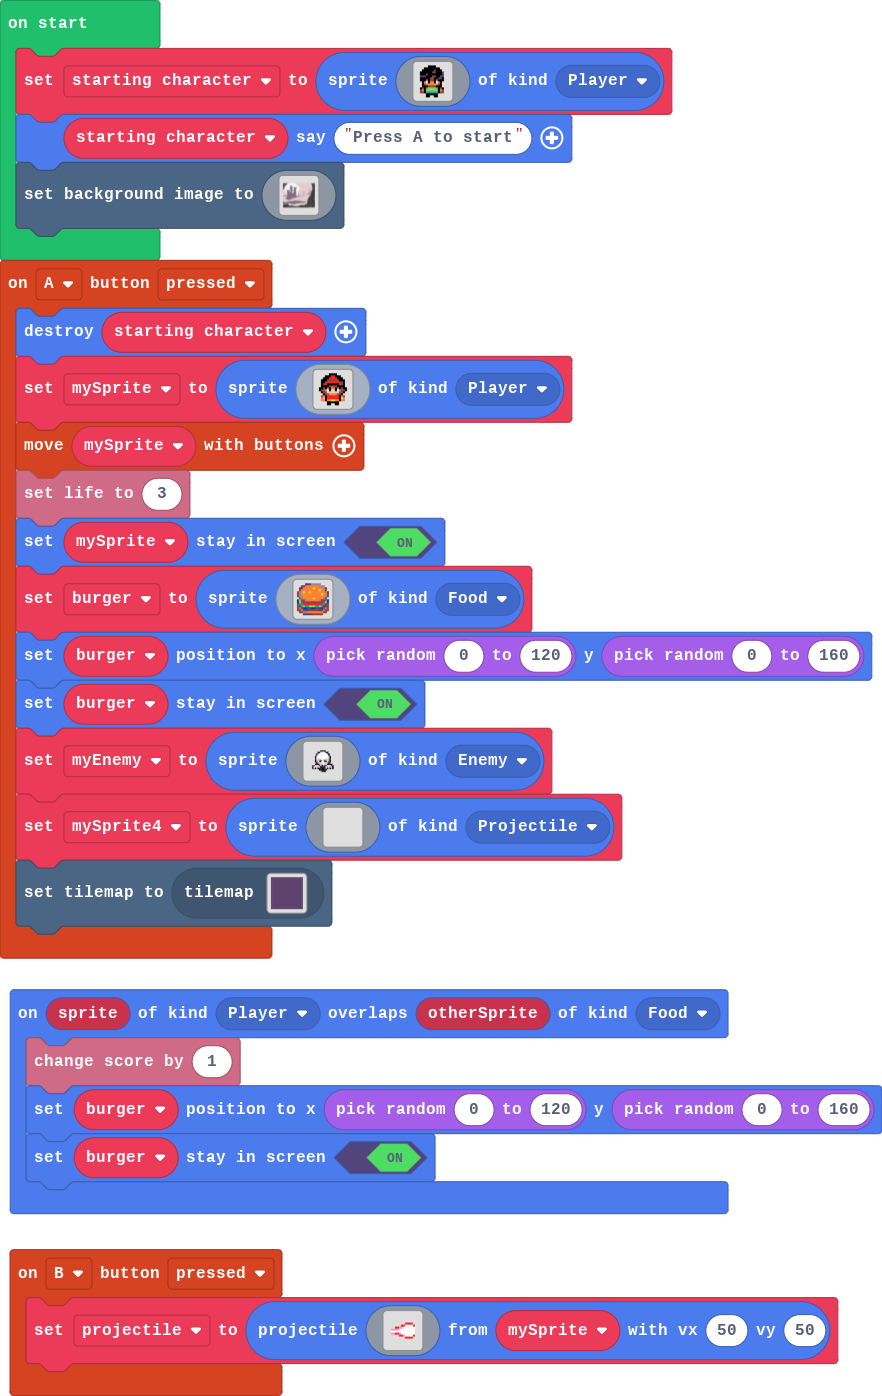
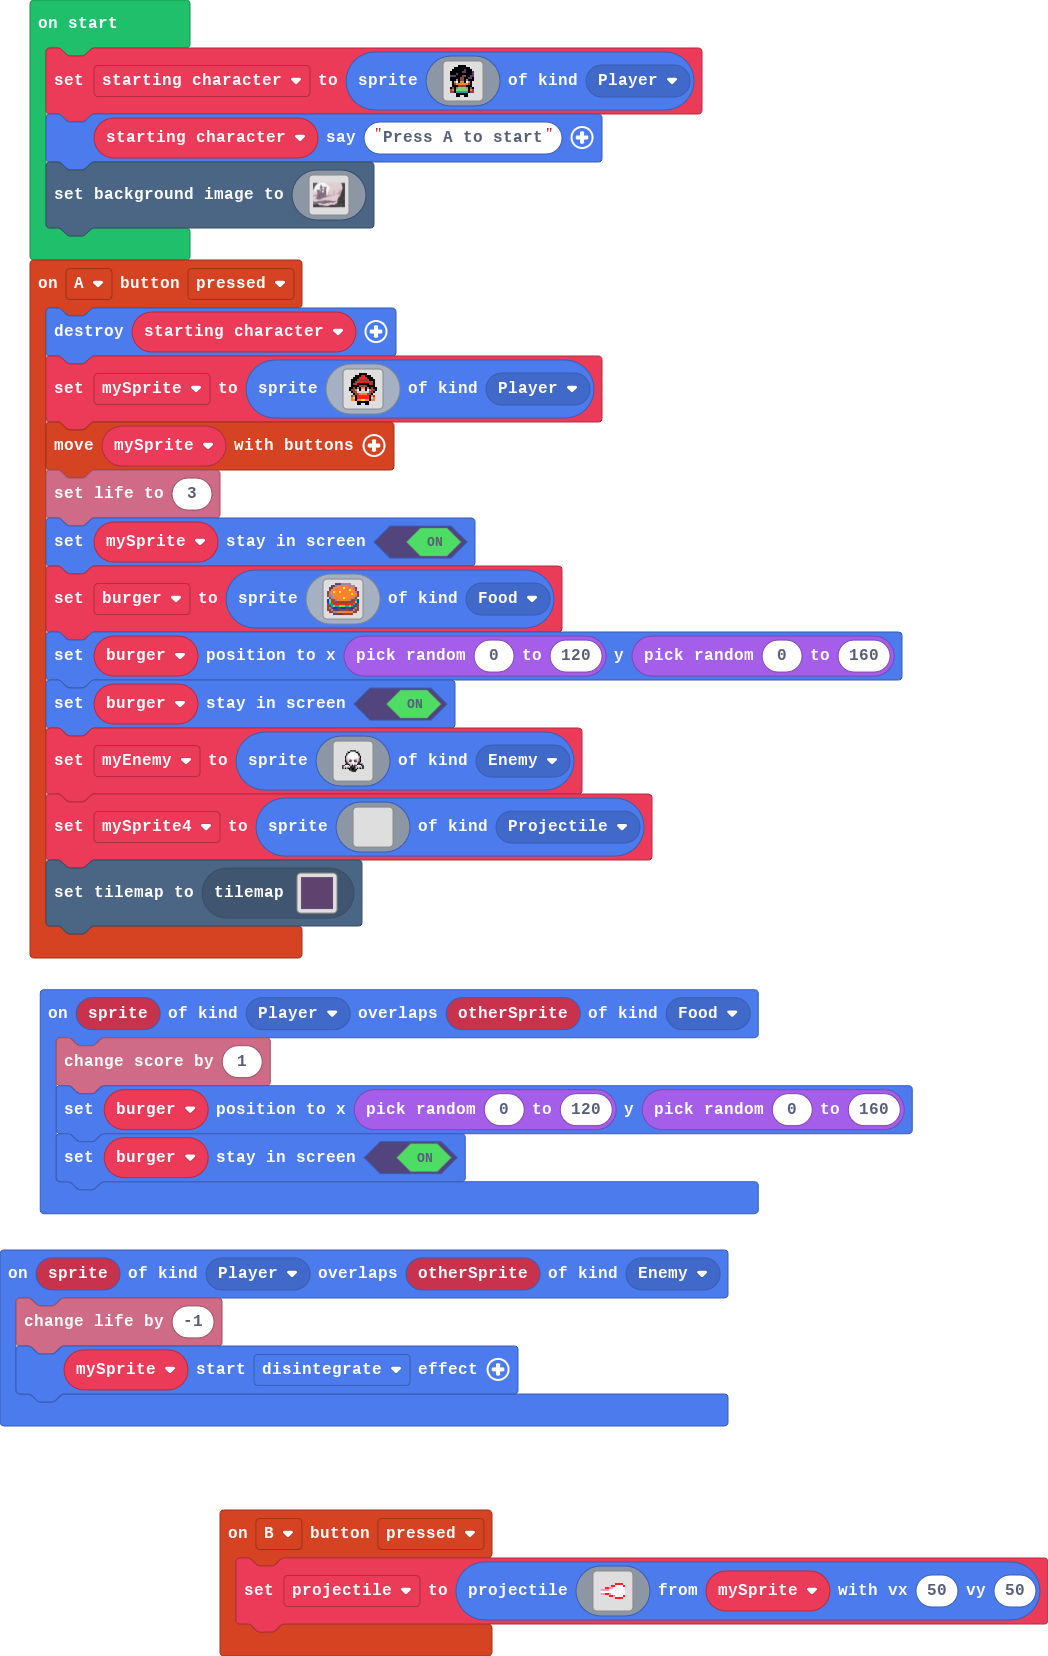
Update main.blocks, main.ts

diff --git a/main.ts b/main.ts
@@ -112,6 +112,10 @@ sprites.onOverlap(SpriteKind.Player, SpriteKind.Food, function (sprite, otherSpr
     burger.setPosition(randint(0, 120), randint(0, 160))
     burger.setStayInScreen(true)
 })
+sprites.onOverlap(SpriteKind.Player, SpriteKind.Enemy, function (sprite, otherSprite) {
+    info.changeLifeBy(-1)
+    mySprite.startEffect(effects.disintegrate)
+})
 let mySprite4: Sprite = null
 let myEnemy: Sprite = null
 let burger: Sprite = null
